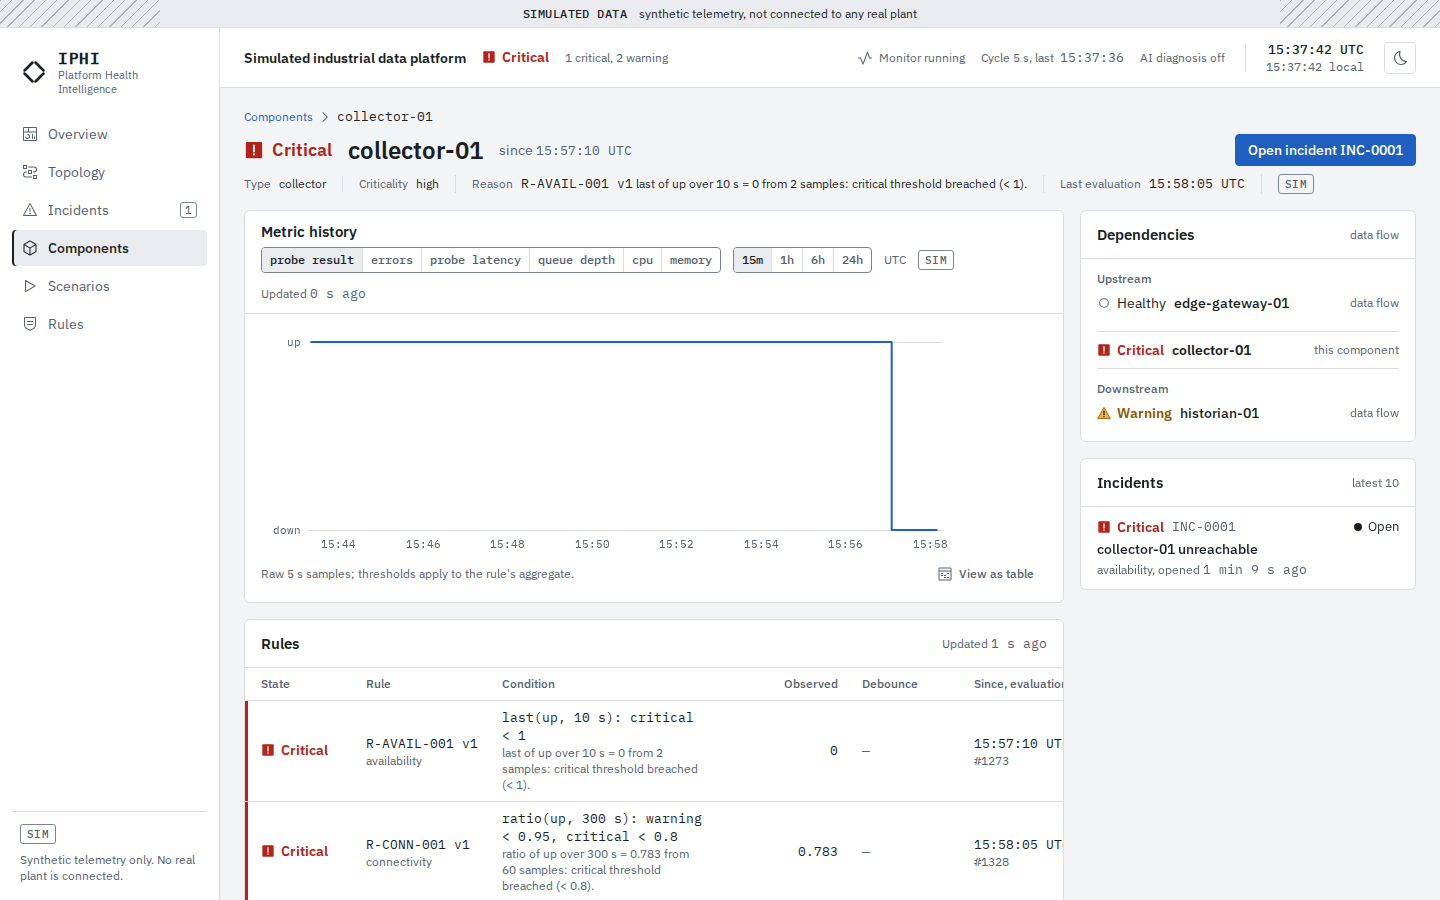
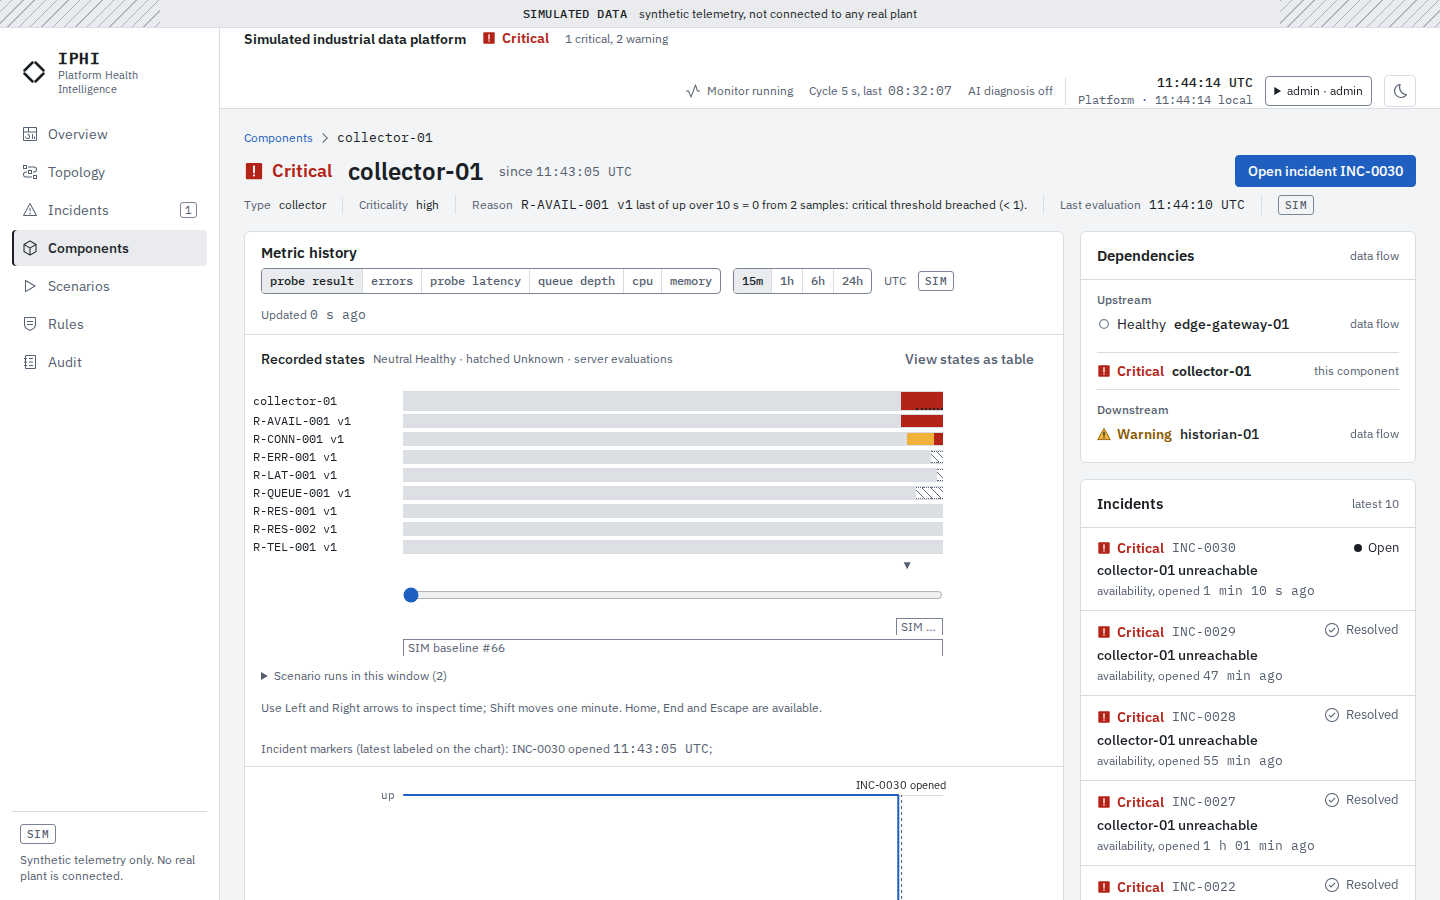
test(identity): finalize browser validation and captures
Wait for the authentication redirect, ignore disposable session files in formatting, and publish actual authenticated captures with local and CI validation evidence.

Refs: US-11

diff --git a/frontend/e2e/identity.e2e.ts b/frontend/e2e/identity.e2e.ts
@@ -16,6 +16,7 @@ test("7. viewer cannot inject a fault; the refusal is visible to admin in audit"
     expect((await viewer.request.get("/api/v1/platforms")).status()).toBe(401);
     const page = await viewer.newPage();
     await page.goto("/scenarios");
+    await page.waitForURL((url) => url.pathname === "/login");
     await expect(page.getByRole("heading", { name: "Sign in to platform health" })).toBeVisible();
     await page.getByLabel("Username", { exact: true }).fill("viewer");
     await page.getByLabel("Password", { exact: true }).fill(await demoPassword("viewer"));
@@ -59,6 +60,7 @@ test("7. viewer cannot inject a fault; the refusal is visible to admin in audit"
     await expect(auditPage.getByRole("table")).toContainText("viewer");
     await page.getByText("viewer · viewer", { exact: true }).click();
     await page.getByRole("button", { name: "Sign out", exact: true }).click();
+    await page.waitForURL((url) => url.pathname === "/login");
     await expect(page.getByRole("heading", { name: "Sign in to platform health" })).toBeVisible();
     expect((await viewer.request.get("/api/v1/platforms")).status()).toBe(401);
   } finally {

diff --git a/docs/03-backlog.md b/docs/03-backlog.md
@@ -280,7 +280,7 @@ Aucune réalisation n'invente d'API AVEVA PI ni n'annonce une compatibilité non
 | US-08 | Fait (2026-11-18), PR #8 fusionnée, CI verte sur `main` (run 44243405370) | Adaptateurs none/fake/openai, sortie stricte/citations/masquage, comparaison et fallback persistés, quota PostgreSQL, worker non bloqué pendant le réseau ; migration 0007 montée/descente et parité ORM ; 373 tests unitaires backend, 18 intégration API/migrations + 48 régressions API/readiness, 75 tests frontend dont axe, 12 tests UI ciblés finaux ; démo PASS (113 s), e2e P0 8/8 en une exécution (5,1 min, affichage 525–723 ms) et parcours fake US-08 1/1 (23,5 s) ; revue visuelle 1440/768 clair/sombre, ADR 0021. Première exécution e2e : performance échouée sous saturation disque, conservée dans le journal puis suite complète rejouée verte sans seuil modifié. CI PR 44200231369 : 558 tests backend (96 %), 75 frontend, démo 115 s, P0 8/8 et fake 1/1 ; six jobs verts sur PR puis sur main. Fournisseur payant NOT VERIFIED. Extension OpenRouter demandée le 18 novembre : adaptateur gratuit uniquement, plafond de prix zéro, contrôle du coût déclaré et identité de modèle transport ; ADR 0024. Validation locale : 437 tests unitaires, 13 intégrations PostgreSQL, lint/typage/imports verts ; appel réel particle/free réussi (5 faits retenus, 608 tokens de sortie, 4444 ms), comparaison persistée, supervision HTTP 200. Extension fusionnée par PR #11 (9906bed) ; CI PR 44308305743 verte 6/6 : 638 backend (96 %), 89 frontend, navigateur 11 PASS + fake 1 PASS ; CI main 44310969804 verte 6/6 sur 9906bed. |
 | US-09 | Fait (2026-11-18), PR #9 fusionnée, CI verte sur `main` (run 44248348754) | PDF/CSV sur instantané PostgreSQL cohérent, registre complet borné sans troncature silencieuse, diagnostics séparés et repli, ressources limitées aux polices embarquées ; ADR 0022. 393 tests unitaires backend, 9 intégrations rapports (texte PDF/IDs/versions, fake et repli, injections CSV/HTML, bornes, garde de rendu/CSV disponible) et 32 régressions incidents/diagnostics/migrations verts ; 78 tests frontend et 15 tests UI finaux ciblés, lint/typage et audit strict verts. Démo 122 s ; téléchargement PDF/CSV e2e 1/1 en 43,3 s, parcours fake US-08 1/1 ; revue PDF de 26 pages et UI clair/sombre 1440/768, téléchargement clavier vérifié. Premier e2e exportait avant confirmation availability : attente corrigée selon ADR 0017, contenu de règle exigé inchangé. Suite locale finale 9 PASS / un parcours fake optionnel ignoré (fake validé séparément) ; CI PR 44247106592 : 587 backend (96 %), 78 frontend, démo 110 s, navigateur 9 PASS + fake 1 PASS, six jobs verts puis CI main verte. |
 | US-07 | Fait (2026-11-18), PR #10 fusionnée, CI verte sur `main` (run 44305090793) | ADR 0023 ; SSE natif / LISTEN-NOTIFY transactionnel, resynchronisation et repli 30 s ; React Flow/dagre, sélection URL/clavier et panneau ; historique serveur avec lacunes Unknown, reset, versions/preuves et pics critiques conservés, réticule partagé, repères incidents/scénarios ; commentaires audités et chronologie paginée. Backend complet 610 PASS (96 %), puis historique final 9 PASS et intégration étendue 2 PASS ; frontend 89 PASS ; lint/typage/imports et audit dépendances verts. Démo propre 121 s. Navigateur ciblé : délai après changement validé 620 ms, repli réel 30 s, resynchronisation 975 ms (55 s) ; graphe clavier/historique/commentaire persistant PASS (44,2 s). Arrêt API avec flux ouvert : 2,91 s, code 0, nettoyage lifespan. Échecs locaux et corrections conservés dans le journal ; Régression globale 11 PASS / un parcours fake optionnel ignoré (6,9 min), fake 1 PASS séparément (19,6 s), filtre URL/rechargement final PASS (32,2 s) ; captures réelles 1440 clair/768 sombre revues. CI PR 44302943906 : 611 backend (96 %), 89 frontend, démo 110 s, navigateur 11 PASS + fake 1 PASS ; affichage 185–284 ms, changement validé 497 ms, reconnexion 263 ms ; six jobs verts sur PR puis main. |
-| US-11 | En validation locale | Sessions serveur, Argon2id, CSRF, rôles, audit et interface implémentés (ADR 0025) ; 102 tests frontend et 25 contrôles ciblés identité/migrations/SSE verts ; suite backend 658 PASS / une ancienne assertion pré-auth corrigée, régression en cours ; exécution Compose et navigateur à confirmer. |
+| US-11 | Validé (2026-11-19), PR #12 | ADR 0025, migration 0008 montée/descente/parité ORM ; sessions hachées, Argon2id, expiration/révocation, CSRF, matrice rôle × mutation, audit admin borné, connexion/menu/permissions. CI PR 44483207714 verte 6/6 : 663 tests backend (96 %), 102 frontend, démo propre 109 s, navigateur 12 PASS et fake 1 PASS ; affichage 237–272 ms, SSE 381 ms/reconnexion 240 ms. Local : démo authentifiée 126 s, 42 régressions API/identité et 25 contrôles identité/bootstrap/SSE verts, viewer/admin navigateur 1 PASS (24,6 s), captures réelles clair/sombre régénérées et revues. Deux suites navigateur locales sous forte charge disque : 9 PASS/3 FAIL puis 7 PASS/5 FAIL ; seuil premier affichage non atteint (2 486/2 052 ms), délais PDF/worker et attente de redirection consignés dans docs/performance.md, aucune assertion de performance assouplie. Audits des dépendances et scan de secrets verts. |
 | US-12 | À faire | — |
 
 Le statut n'est mis à jour que sur preuve (commandes et résultats).

diff --git a/docs/performance.md b/docs/performance.md
@@ -59,6 +59,27 @@ Two runs on the same stack, 2026-11-16: the first right after the backfill, the 
 
 Rebuilding the covering unique index on `metric_sample` took 109 s on 4.3 M samples, under a write lock: the worker waits for `migrate` to finish.
 
+### Authenticated dashboard (US-11, 2026-11-19)
+
+The same first-display test now starts with a real server session and an empty browser
+cache for each load. The performance assertion remains below 2 seconds for every load.
+
+| Environment | Five cold loads (ms) | Target met |
+|---|---|---|
+| Local, loaded host, run 1 | 2486, 2015, 1045, 1882, 879 | no |
+| Local, loaded host, run 2 | 1833, 1239, 2052, 911, 821 | no |
+| PR #12 CI, run 44483207714 | 272, 250, 254, 237, 245 | yes |
+
+Local I/O pressure reached 93%; PDF and worker-cycle waits also timed out in some
+browser scenarios. The first local suite finished with 9 passed, 3 failed and one
+optional skip; the second with 7 passed, 5 failed and one skip. The viewer-context
+and redirect waits were corrected separately; its final isolated local test passed.
+CI completed all 12 browser tests and the separate fake-provider test. These are
+different environments, not a before/after performance comparison. The historical
+7-day series target miss above remains unresolved.
+An additional isolated local first-display attempt also timed out before completing
+its five loads while I/O pressure reached 99%; it provides no successful timing sample.
+
 ## Reading
 
 - The 7-day aggregated series misses its target on this host. PostgreSQL executes the query in 123 ms with every page in cache (parallel index-only scan of 120 k rows, sort, group by `date_bin`); the rest is contention with the host's I/O and CPU load, which also explains the spread between the two runs. The target is not reported as met.

diff --git a/README.md b/README.md
@@ -18,7 +18,7 @@ IPHI monitors the health of an **industrial data platform** — sources, gateway
 | US-08 | Optional structured diagnosis, evidence validation, deterministic comparison and fallback | Delivered (PR #8; CI green on main) |
 | US-09 | Incident PDF and CSV reports from stored evidence | Delivered (PR #9; main CI 44248348754 green) |
 | US-07 | Live updates, interactive topology, recorded state history and investigation comments | Delivered (PR #10; CI green on main) |
-| US-11 | Server sessions, roles, CSRF, audit and permission tests | In validation ([access guide](docs/access.md)) |
+| US-11 | Server sessions, roles, CSRF, audit and permission tests | Implemented (PR #12; CI green, [access guide](docs/access.md)) |
 | US-12 | MQTT adapter | Planned ([backlog](docs/03-backlog.md)) |
 
 What runs today: PostgreSQL, a migration and seed job, the FastAPI API (`/health`, `/ready`, simulation, metrics, logs, health and system status endpoints, OpenAPI), a worker that holds the scheduler lock and, every cycle, collects the simulated observations, validates and stores them, evaluates the health rules, opens, updates and resolves incidents, purges data past retention and writes a heartbeat, and the operator dashboard described below.

diff --git a/docs/access.md b/docs/access.md
@@ -10,6 +10,9 @@ or screenshots. No password is built into the image or repository.
 Open the interface and sign in as `viewer`, `engineer` or `admin`, using the
 corresponding `IPHI_DEMO_*_PASSWORD`. All observations remain explicitly simulated.
 
+Actual sign-in captures: [light, 1440 px](design/screenshots/us-11-login-light-1440.png)
+and [dark, 768 px](design/screenshots/us-11-login-dark-768.png).
+
 | Role | Permitted actions |
 |---|---|
 | viewer | Read monitoring, evidence, history, diagnostics and PDF/CSV reports |
